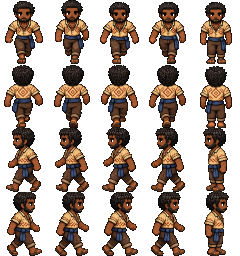
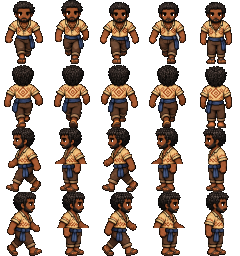
pus

diff --git a/js/game/npcs.js b/js/game/npcs.js
@@ -100,7 +100,7 @@ export class NpcMixin {
       if (!first && !s.hidden && !n.hidden) { const gap = Math.hypot(s.x - n.x, s.y - n.y);       // visível: nunca salta; se a agenda o deixou para trás, anda até ela
         if (gap > 6 && (n.catchUp || gap > 40)) { const step = NPC.SPEED * 1.6 * dt; if (gap <= step) { n.catchUp = false; } else { nx = n.x + (s.x - n.x) / gap * step; ny = n.y + (s.y - n.y) / gap * step; walkBack = true; } } else n.catchUp = false; }
       const moved = Math.hypot(nx - n.x, ny - n.y); n.seen = true; n.x = nx; n.y = ny; n.state = walkBack ? 'WALKING' : s.state; n.hidden = s.hidden; n.task = s.task;
-      const fx = walkBack ? s.x - n.x : s.face[0], fy = walkBack ? s.y - n.y : s.face[1]; if (Math.abs(fx) + Math.abs(fy) > 0.1) n.face = [fx, fy]; n.animT += dt; n.moving = moved > 0.05;
+      const fx = walkBack ? s.x - n.x : s.face[0], fy = walkBack ? s.y - n.y : s.face[1]; if (Math.abs(fx) + Math.abs(fy) > 0.1) n.face = [fx, fy]; n.animT += dt; n.moving = moved > 0.05; if (n.moving && (n.state === 'WALKING' || n.state === 'CARRYING')) n.stepAcc = (n.stepAcc || 0) + moved;   // a passada anda por DISTÂNCIA (como a do jogador), não por tempo: os pés acompanham o chão
     }
   }
   // entidades para desenhar (mesma ordenação dos animais)
@@ -114,7 +114,8 @@ export class NpcMixin {
     if (n.state === 'WORKING' && row0 !== undefined && (CAN_ANIM[n.role] || []).includes(place)) { const im = a[`npc_${n.sheet}_work`]; if (im) { const row = row0, f = Math.floor(n.animT * 4) % 3, left = n.face[0] < 0;
       if (left) { ctx.save(); ctx.translate(px + cw, py); ctx.scale(-1, 1); ctx.drawImage(im, f * cw, row * ch, cw, ch, 0, 0, cw, ch); ctx.restore(); } else ctx.drawImage(im, f * cw, row * ch, cw, ch, px, py, cw, ch); return; } }
     const im = a[`npc_${n.sheet}_walk`]; if (!im) return; const row = S.walk.rows[this.npcDir(n)];
-    const col = n.state === 'WALKING' || n.state === 'CARRYING' ? S.walk.steps[Math.floor(n.animT * 8) % 4] : S.walk.idle;
+    const sd = (this.npcDir(n) === 'left' || this.npcDir(n) === 'right') ? 9.5 : 10.5;                           // px por quadro da sequência (mesmos valores do jogador)
+    const col = n.state === 'WALKING' || n.state === 'CARRYING' ? S.walk.steps[Math.floor((n.stepAcc || 0) / sd) % 4] : S.walk.idle;
     ctx.drawImage(im, col * cw, row * ch, cw, ch, px, py, cw, ch);
     if (n.state === 'CARRYING') { ctx.fillStyle = '#8a5a2b'; ctx.fillRect(Math.round(n.x) - 6, py + 22, 12, 8); ctx.fillStyle = '#c99a5b'; ctx.fillRect(Math.round(n.x) - 5, py + 22, 10, 2); }   // cesto (provisório, por código)
   }

diff --git a/tools/fix_npc_steps.py b/tools/fix_npc_steps.py
@@ -1,0 +1,41 @@
+#!/usr/bin/env python3
+"""
+Passos dos NPCs de lado: nas folhas de caminhada (assets/npcs/<povo>_<f|m>_walk.png) os 4 quadros laterais eram quase o mesmo passo aberto
+(pé da frente e pé de trás sempre afastados), então os pés pareciam colados no chão enquanto o corpo deslizava.
+Aqui os quadros 1 e 3 da linha lateral viram "passagem": tronco e braços do próprio quadro + pernas juntas do quadro parado.
+Resultado: passo aberto -> pernas juntas -> passo aberto -> pernas juntas (o mesmo padrão dos exploradores).
+A linha da esquerda é a da direita espelhada. Pode rodar de novo sem problema (o tronco não muda). Não cria cores novas.
+Uso: python tools/fix_npc_steps.py [--seam 41]
+"""
+import argparse, glob, os
+import numpy as np
+from PIL import Image
+ROOT = os.path.dirname(os.path.dirname(os.path.abspath(__file__)))
+CW, CH, COLS = 48, 64, 5; R_RIGHT, R_LEFT = 2, 3
+
+def cx(a, y0, y1):                       # centro horizontal dos pixels opacos entre as linhas y0..y1
+    xs = np.where((a[y0:y1, :, 3] > 0).any(0))[0]; return (xs.min() + xs.max()) / 2 if len(xs) else CW / 2
+
+def passing(step, idle, seam):
+    lo = idle.copy(); lo[:seam] = 0
+    dx = int(round(cx(step, seam - 6, seam) - cx(idle, seam, seam + 8)))      # alinha as pernas do quadro parado com o quadril do passo
+    lo = np.roll(lo, dx, axis=1)
+    if dx > 0: lo[:, :dx] = 0
+    elif dx < 0: lo[:, dx:] = 0
+    out = np.zeros_like(step); out[seam:] = lo[seam:]
+    up = step.copy(); up[seam:] = 0
+    m = up[:, :, 3] > 0; out[m] = up[m]                                         # tronco por cima
+    return out
+
+def main():
+    ap = argparse.ArgumentParser(); ap.add_argument('--seam', type=int, default=41); a = ap.parse_args(); n = 0
+    for f in sorted(glob.glob(os.path.join(ROOT, 'assets', 'npcs', '*_walk.png'))):
+        im = np.array(Image.open(f).convert('RGBA')); cell = lambda r, c: im[r * CH:(r + 1) * CH, c * CW:(c + 1) * CW]
+        idle = cell(R_RIGHT, 4).copy()
+        for c in (1, 3):
+            p = passing(cell(R_RIGHT, c).copy(), idle, a.seam)
+            im[R_RIGHT * CH:(R_RIGHT + 1) * CH, c * CW:(c + 1) * CW] = p
+        for c in range(COLS): im[R_LEFT * CH:(R_LEFT + 1) * CH, c * CW:(c + 1) * CW] = cell(R_RIGHT, c)[:, ::-1]       # esquerda = direita espelhada
+        Image.fromarray(im).save(f); n += 1
+    print(n, 'folhas corrigidas')
+if __name__ == '__main__': main()
